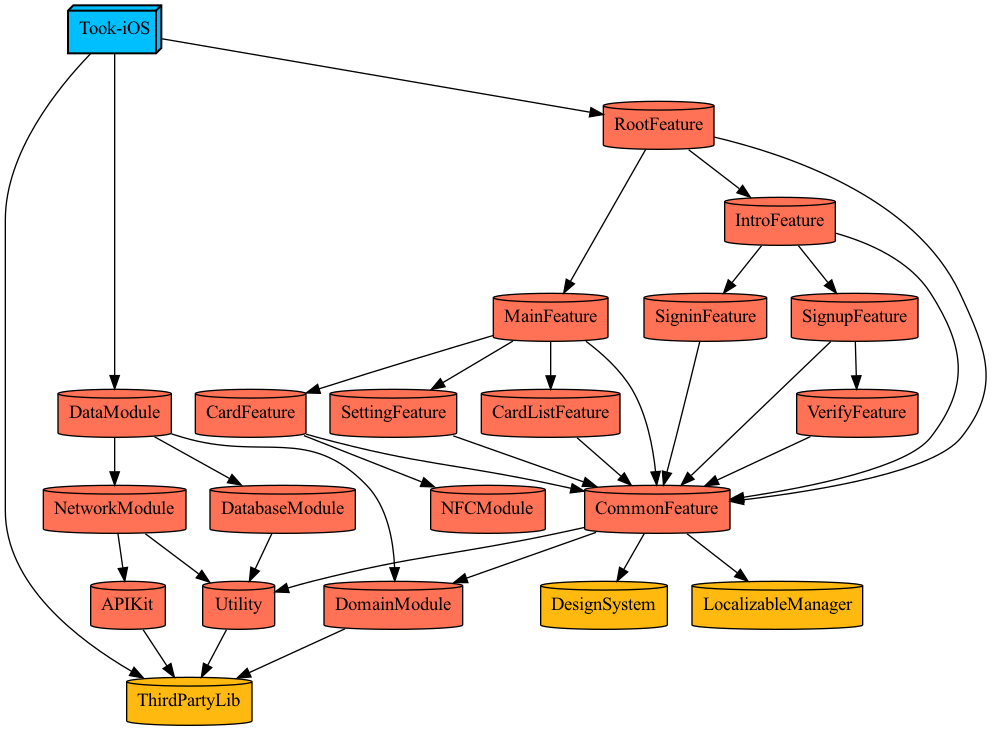
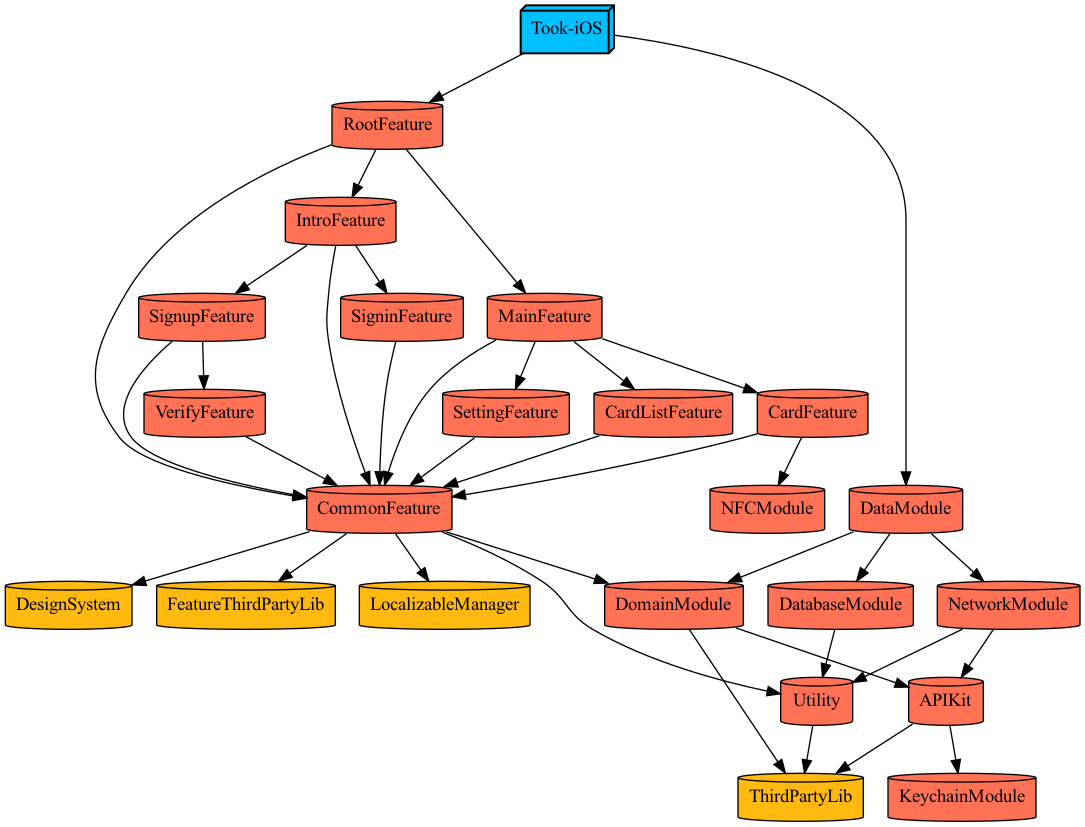
:sparkles: :: TookAPi

diff --git a/Projects/Services/APIKit/Sources/Plugin/JwtPlugin.swift b/Projects/Services/APIKit/Sources/Plugin/JwtPlugin.swift
@@ -1,0 +1,65 @@
+import Moya
+import Foundation
+import KeychainModule
+
+public protocol JwtAuthorizable {
+    var jwtTokenType: JwtTokenType { get }
+}
+
+public enum JwtTokenType: String {
+    case accessToken = "Authorization"
+    case refreshToken = "RefreshToken"
+    case none
+}
+
+struct JwtPlugin: PluginType {
+    private let keychain = Keychain()
+
+    func prepare(
+        _ request: URLRequest,
+        target: TargetType
+    ) -> URLRequest {
+        guard let jwtTokenType  = (target as? JwtAuthorizable)?.jwtTokenType,
+              jwtTokenType != .none
+        else { return request }
+        var req = request
+        let token = jwtTokenType == .accessToken ?
+        "Bearer \(getToken(type: .accessToken))" :
+        getToken(type: .refreshToken)
+
+        req.addValue(token, forHTTPHeaderField: jwtTokenType.rawValue)
+        return req
+    }
+
+    func didReceive(
+        _ result: Result<Response, MoyaError>,
+        target: TargetType
+    ) {
+        switch result {
+        case let .success(res):
+            if let new = try? res.map(TokenDTO.self) {
+                saveToken(token: new)
+            }
+        default:
+            break
+        }
+    }
+}
+
+private extension JwtPlugin {
+    func getToken(type: KeychainType) -> String {
+        switch type {
+        case .accessToken:
+            return keychain.load(type: .accessToken)
+        case .refreshToken:
+            return keychain.load(type: .refreshToken)
+        case .expiredAt:
+            return keychain.load(type: .expiredAt)
+        }
+    }
+    func saveToken(token: TokenDTO) {
+        keychain.save(type: .accessToken, value: token.accessToken)
+        keychain.save(type: .refreshToken, value: token.refreshToken)
+        keychain.save(type: .expiredAt, value: token.expiredAt)
+    }
+}

diff --git a/Projects/Modules/KeychainModule/Sources/Keychain.swift b/Projects/Modules/KeychainModule/Sources/Keychain.swift
@@ -1,0 +1,49 @@
+import Foundation
+
+public enum KeychainType: String {
+    case accessToken = "ACCESS-TOKEN"
+    case refreshToken = "REFRESH-TOKEN"
+    case expiredAt = "EXPIRED-AT"
+}
+
+public struct Keychain {
+    private let service: String
+    public init(service: String = Bundle.main.bundleIdentifier ?? "") {
+        self.service = service
+    }
+
+    public func save(type: KeychainType, value: String) {
+        let query: NSDictionary = [
+            kSecClass: kSecClassGenericPassword,
+            kSecAttrService: service,
+            kSecAttrAccount: type.rawValue,
+            kSecValueData: value.data(using: .utf8, allowLossyConversion: false) ?? .init()
+        ]
+        SecItemDelete(query)
+        SecItemAdd(query, nil)
+    }
+
+    public func load(type: KeychainType) -> String {
+        let query: NSDictionary = [
+            kSecClass: kSecClassGenericPassword,
+            kSecAttrService: service,
+            kSecAttrAccount: type.rawValue,
+            kSecReturnData: kCFBooleanTrue!,
+            kSecMatchLimit: kSecMatchLimitOne
+        ]
+        var ref: AnyObject?
+        _ = SecItemCopyMatching(query, &ref)
+        guard let data = ref as? Data else { return "" }
+        let value = String(data: data, encoding: .utf8)
+        return value ?? ""
+    }
+
+    public func delete(type: KeychainType) {
+        let query: NSDictionary = [
+            kSecClass: kSecClassGenericPassword,
+            kSecAttrService: service,
+            kSecAttrAccount: type.rawValue
+        ]
+        SecItemDelete(query)
+    }
+}

diff --git a/Tuist/Dependencies.swift b/Tuist/Dependencies.swift
@@ -4,7 +4,8 @@ let dependencies = Dependencies(
     carthage: nil,
     swiftPackageManager: [
         .remote(url: "https://github.com/uber/needle.git", requirement: .upToNextMajor(from: "0.19.0")),
-        .remote(url: "https://github.com/onevcat/Kingfisher.git", requirement: .upToNextMajor(from: "7.3.2"))
+        .remote(url: "https://github.com/onevcat/Kingfisher.git", requirement: .upToNextMajor(from: "7.3.2")),
+        .remote(url: "https://github.com/Moya/Moya.git", requirement: .upToNextMajor(from: "15.0.3"))
     ],
     platforms: [.iOS]
 )

diff --git a/Projects/Modules/KeychainModule/Tests/TargetTest.swift b/Projects/Modules/KeychainModule/Tests/TargetTest.swift
@@ -1,0 +1,17 @@
+import XCTest
+
+class TargetTests: XCTestCase {
+
+    override func setUpWithError() throws {
+        // Put setup code here. This method is called before the invocation of each test method in the class.
+    }
+
+    override func tearDownWithError() throws {
+        // Put teardown code here. This method is called after the invocation of each test method in the class.
+    }
+
+    func testExample() throws {
+        XCTAssertEqual("A", "A")
+    }
+
+}

diff --git a/Plugin/UtilityPlugin/ProjectDescriptionHelpers/Dependency+Project.swift b/Plugin/UtilityPlugin/ProjectDescriptionHelpers/Dependency+Project.swift
@@ -27,6 +27,7 @@ public extension TargetDependency.Project.Module {
     static let FeatureThirdPartyLib = TargetDependency.module(name: "FeatureThirdPartyLib")
     static let Utility = TargetDependency.module(name: "Utility")
     static let NFCModule = TargetDependency.module(name: "NFCModule")
+    static let KeychainModule = TargetDependency.module(name: "KeychainModule")
 }
 
 public extension TargetDependency.Project.Service {

diff --git a/Plugin/UtilityPlugin/ProjectDescriptionHelpers/Dependency+SPM.swift b/Plugin/UtilityPlugin/ProjectDescriptionHelpers/Dependency+SPM.swift
@@ -7,6 +7,7 @@ public extension TargetDependency {
 public extension TargetDependency.SPM {
     static let Needle = TargetDependency.external(name: "NeedleFoundation")
     static let Kingfisher = TargetDependency.external(name: "Kingfisher")
+    static let Moya = TargetDependency.external(name: "Moya")
 }
 
 public extension Package {

diff --git a/Projects/App/Project.swift b/Projects/App/Project.swift
@@ -30,8 +30,7 @@ let targets: [Target] = [
         scripts: scripts,
         dependencies: [
             .Project.Features.RootFeature,
-            .Project.Service.Data,
-            .Project.Module.ThirdPartyLib
+            .Project.Service.Data
         ],
         settings: .settings(base: Environment.baseSetting)
     ),

diff --git a/Projects/Services/APIKit/Project.swift b/Projects/Services/APIKit/Project.swift
@@ -5,6 +5,8 @@ let project = Project.makeModule(
     name: "APIKit",
     product: .staticFramework,
     dependencies: [
-        .Project.Module.ThirdPartyLib
+        .Project.Module.ThirdPartyLib,
+        .Project.Module.KeychainModule,
+        .SPM.Moya
     ]
 )

diff --git a/Projects/Services/DomainModule/Project.swift b/Projects/Services/DomainModule/Project.swift
@@ -5,6 +5,7 @@ let project = Project.makeModule(
     name: "DomainModule",
     product: .staticFramework,
     dependencies: [
-        .Project.Module.ThirdPartyLib
+        .Project.Module.ThirdPartyLib,
+        .Project.Service.APIKit
     ]
 )

diff --git a/Projects/Services/APIKit/Sources/TookAPI.swift b/Projects/Services/APIKit/Sources/TookAPI.swift
@@ -1,0 +1,11 @@
+import Moya
+import Foundation
+
+public protocol TookAPI: TargetType, JwtAuthorizable {
+    var domain: TookDomain { get }
+    var urlPath: String { get }
+}
+
+public enum TookDomain: String {
+    case auth
+}

diff --git a/Projects/Modules/KeychainModule/Project.swift b/Projects/Modules/KeychainModule/Project.swift
@@ -1,0 +1,7 @@
+import ProjectDescription
+import ProjectDescriptionHelpers
+
+let project = Project.makeModule(
+    name: "KeychainModule",
+    product: .staticFramework
+)

diff --git a/Projects/Services/APIKit/Sources/Plugin/TokenDTO.swift b/Projects/Services/APIKit/Sources/Plugin/TokenDTO.swift
@@ -1,0 +1,5 @@
+struct TokenDTO: Equatable, Decodable {
+    let accessToken: String
+    let refreshToken: String
+    let expiredAt: String
+}
